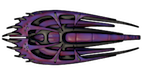
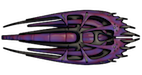
Bullets now fire and move in relation to angle of player.

diff --git a/tinySpaceBattles.py b/tinySpaceBattles.py
@@ -1,6 +1,7 @@
 from sys import exit
 from os import environ
 import pygame
+import math
 from random import randrange
 
 # Define some colors
@@ -112,6 +113,7 @@ class Starship(pygame.sprite.Sprite):
         if p2:
             self.set_graphic(False)
             self.set_loc(randrange(X_DIM-180, X_DIM-150), randrange((Y_DIM/2)-50, (Y_DIM/2)+50))
+            self.rotate(180)
         else:
             self.set_p1(True)
 
@@ -125,25 +127,33 @@ class Starship(pygame.sprite.Sprite):
         """ Return player position. """
         return [self.rect.x, self.rect.y]
 
+    def draw(self, surface):
+        surface.blit(self.image, self.rect)
+
 
 class Bullet(pygame.sprite.Sprite):
     """ This class represents the bullet . """
-    def __init__(self):
+    def __init__(self, angle):
         # Call the parent class (Sprite) constructor
         super(Bullet, self).__init__()
+        self.angle = angle
         self.image = pygame.Surface([10, 3])
         self.image.fill(GREEN)
+        self.image_orig = self.image.convert_alpha()
+        self.image = pygame.transform.rotate(self.image_orig, self.angle)
         self.rect = self.image.get_rect()
         self.bullet_speed = 1
-        self.right = True
+        self.x = 0
+        self.y = 0
+        self.dx = math.cos(math.radians(self.angle)) * self.bullet_speed
+        self.dy = math.sin(math.radians(-self.angle)) * self.bullet_speed
 
     def update(self):
         """ Move the bullet (PyGame-dictated function and signature). """
-        if self.right:  # move right
-            self.rect.x += self.bullet_speed
-        else:  # move left
-            self.rect.x -= self.bullet_speed
-
+        self.x += self.dx
+        self.y += self.dy
+        self.rect.x = self.x
+        self.rect.y = self.y
 
     def set_loc(self, x, y):
         """ Update the bullet's position. """
@@ -161,7 +171,7 @@ class TinySpaceBattles(object):
         self.statusLabel = "Connecting"
         self.playersLabel = "Waiting for player"
         self.frame = 0
-        self.all_sprites_list = pygame.sprite.Group()
+        self.player_list = pygame.sprite.Group()
         self.bullet_list = pygame.sprite.Group() # Don't use the bullet list in players (no need to be separate lists)
         self.p1 = Starship()
         self.p1.set_p1(True)
@@ -169,8 +179,6 @@ class TinySpaceBattles(object):
         self.p2.set_p2(True)
         self.wiimote = None
         self.is_p1 = None
-
-        self.Player_init()
         self.Wiimote_init()
 
     def Wiimote_init(self):
@@ -184,26 +192,16 @@ class TinySpaceBattles(object):
             self.wiimote = pygame.joystick.Joystick(0)
             self.wiimote.init()
 
-    def Player_init(self):
-        self.all_sprites_list.add(self.p1)
-        self.all_sprites_list.add(self.p2)
-
-    def Recreate_sprite_lists(self):
-        self.all_sprites_list.empty()
-        self.all_sprites_list.add(self.p1)
-        self.all_sprites_list.add(self.p2)
-        self.all_sprites_list.add(self.bullet_list)
-
     def Which_player(self):
         return str("p1") if self.is_p1 else str("p2")
 
     def Win_or_lose(self, win):
-        pass
+        pass  # Overlay win or lose message on screen
 
     def Update_bullets(self, bullets):
         self.bullet_list.empty()
         for loc in bullets:
-            bullet = Bullet()
+            bullet = Bullet(loc[2])
             # Set the bullet's position
             bullet.rect.x = loc[0]
             bullet.rect.y = loc[1]
@@ -285,11 +283,10 @@ class TinySpaceBattles(object):
         screen.blit(fnt.render(self.statusLabel, 1, WHITE), [10, 25])
         screen.blit(fnt.render(self.playersLabel, 1, WHITE), [10, 40])
 
-        pygame.draw.circle(screen, BLUE, (self.p1.rect.x, self.p1.rect.y), 10)
-
         # Draw players and bullets
-        self.Recreate_sprite_lists()
-        self.all_sprites_list.draw(screen)
+        self.bullet_list.draw(screen)
+        self.p1.draw(screen)
+        self.p2.draw(screen)
         pygame.display.flip()
 
 

diff --git a/server.py b/server.py
@@ -1,6 +1,7 @@
 import sys
 import os
 import pygame
+import math
 from collections import deque
 from time import sleep
 from tinySpaceBattles import Bullet, Starship
@@ -31,7 +32,6 @@ class ServerChannel(object, Channel):
     @player_pos.setter
     def player_pos(self, value):
         self.sprite.update(value)
-        # self._player_pos = self.sprite.get_loc() # TODO Should use this
         self._player_pos = value
 
     def WhichPlayer(self):
@@ -49,32 +49,25 @@ class ServerChannel(object, Channel):
     ##################################
 
     def Network_move(self, data):
-        print(data)
-        if self.p1 and data['p'] == 'p1':
-            self.player_pos = data['p_pos']
-        elif not self.p1 and data['p'] == 'p2':
-            self.player_pos = data['p_pos']
+        # if self.p1 and data['p'] == 'p1':
+        #     self.player_pos = data['p_pos']
+        # elif not self.p1 and data['p'] == 'p2':
+        #     self.player_pos = data['p_pos']
         # else:
         #     sys.stderr.write("ERROR: Couldn't update player movement information.\n")
         #     sys.stderr.write(str(data) + "\n")
         #     sys.stderr.flush()
         #     sys.exit(1)
+        self.player_pos = data['p_pos']
         data['p_pos'][0] = self.player_pos[0]
         data['p_pos'][1] = self.player_pos[1]
         self.PassOn(data)
 
     def Network_fire(self, data):
-        bullet = Bullet()
-        bullet.right = self.p1  # True when P1 (right), False when P2 (left)
+        bullet = Bullet(self.sprite.angle)
         # Set the bullet so it is where the player is
-        bullet.rect.x = self.player_pos[0]
-        bullet.rect.y = self.player_pos[1]
-        # Adjust the bullet's position so that it looks a little better
-        if self.p1:
-            bullet.rect.x += 105
-            bullet.rect.y += 37
-        else:
-            bullet.rect.y += 37
+        bullet.x = self.sprite.rect.center[0]
+        bullet.y = self.sprite.rect.center[1]
         # Add the bullet to the list
         self.bullets.add(bullet)
 
@@ -158,8 +151,8 @@ class TinyServer(object, Server):
         self.p2.bullets.update()
 
         # Do collision detection
-        self.HandleBulletHits(self.p1)
-        self.HandleBulletHits(self.p2)
+        # self.HandleBulletHits(self.p1)
+        # self.HandleBulletHits(self.p2)
 
         # Generate position list
         bullet_list = self.GenerateBulletLocs()
@@ -198,11 +191,11 @@ class TinyServer(object, Server):
         for player in {self.p1, self.p2}:
             for bullet in player.bullets:
                 # Remove the bullet if it flies off the screen
-                if bullet.rect.x < 5 or bullet.rect.x > (X_DIM - 5):
+                if bullet.rect.x < -15 or bullet.rect.x > (X_DIM + 15) or bullet.rect.y < -15 or bullet.rect.y > (X_DIM + 15):
                     bullet.kill()
                     break
                 # If we're here, bullet is still moving and should be sent to clients
-                bullet_locs.append((bullet.rect.x, bullet.rect.y))
+                bullet_locs.append((bullet.rect.x, bullet.rect.y, bullet.angle))
         return bullet_locs
 
     def HandleBulletHits(self, player):
